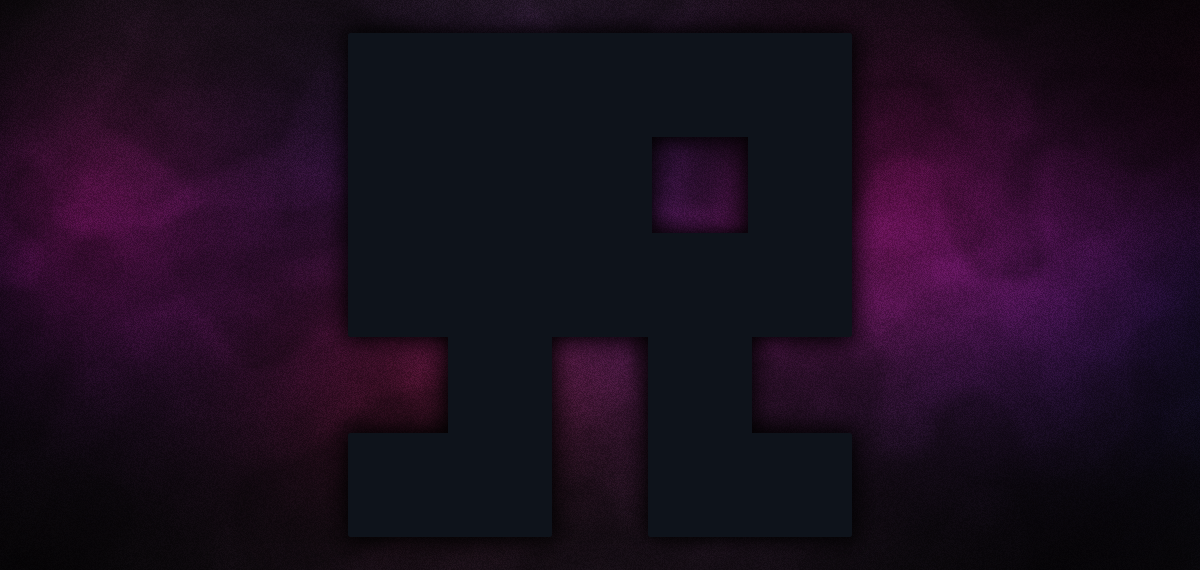
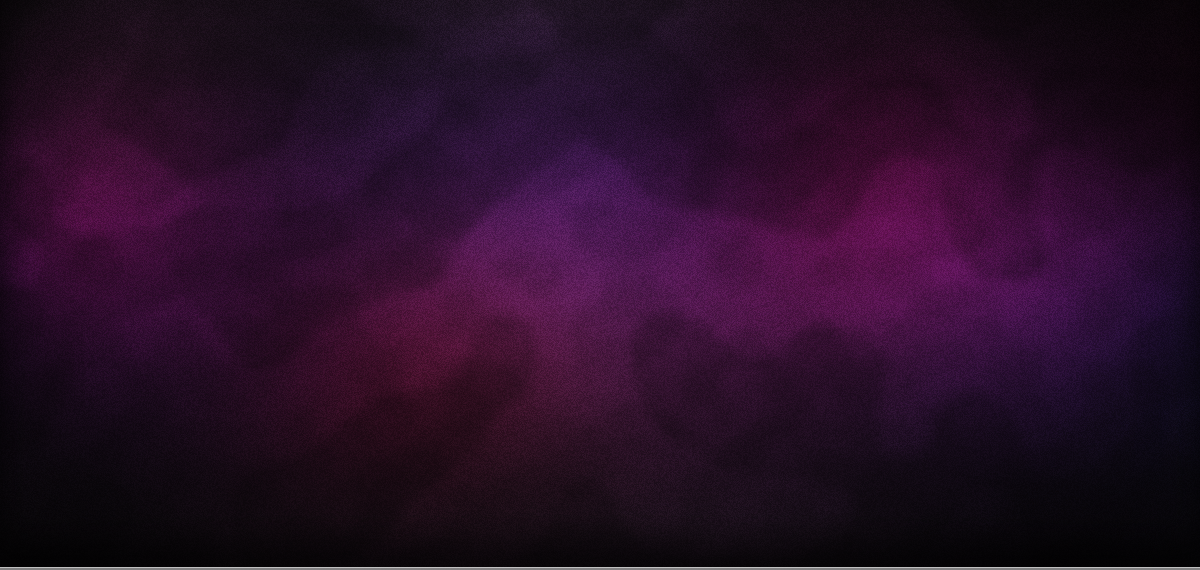
buttoooooons

Changed region(s): [[0.2775, 0.0298, 0.74, 0.8649], [0.0, 0.9842, 1.0, 1.0]]

diff --git a/LHM/src/lhm/GUI.css b/LHM/src/lhm/GUI.css
@@ -24,6 +24,7 @@ and open the template in the editor.
 
 #multilbl{
     -fx-font: 30 arial;
+    -fx-font-style: italic;
     -fx-text-fill: white;
     -fx-font-weight: bold;
     -fx-effect: dropshadow(gaussian, rgba(0, 0, 0, 0.4) , 10, 0.5, -1, 1);
@@ -73,6 +74,11 @@ and open the template in the editor.
     -fx-background-color: transparent;
 }
 
+#playbreakbtn:hover{
+    -fx-background-image: url("Bilder/playh.png");
+}
+
+
 #playbreakbtn1{
     -fx-background-image: url("Bilder/pause.png");
     -fx-background-size: 70px 70px;
@@ -82,6 +88,10 @@ and open the template in the editor.
 
 }
 
+#playbreakbtn1:hover{
+    -fx-background-image: url("Bilder/pauseh.png");
+}
+
 #stopbtn{
     -fx-background-image: url("Bilder/beenden.png");
     -fx-background-size: 70px 70px;
@@ -89,6 +99,10 @@ and open the template in the editor.
     -fx-background-position: center;
     -fx-background-color: transparent;
 
+}
+
+#stopbtn:hover{
+    -fx-background-image: url("Bilder/beendenh.png");
 }
 
 #ball{
@@ -110,4 +124,8 @@ and open the template in the editor.
     -fx-background-position: center;
     -fx-background-color: transparent;
 
+}
+
+#pfeill:hover{
+    -fx-background-image: url("Bilder/Pfeilh.png");
 }

diff --git a/out/production/Murmelbahn/lhm/GUI.css b/out/production/Murmelbahn/lhm/GUI.css
@@ -24,6 +24,7 @@ and open the template in the editor.
 
 #multilbl{
     -fx-font: 30 arial;
+    -fx-font-style: italic;
     -fx-text-fill: white;
     -fx-font-weight: bold;
     -fx-effect: dropshadow(gaussian, rgba(0, 0, 0, 0.4) , 10, 0.5, -1, 1);
@@ -73,6 +74,11 @@ and open the template in the editor.
     -fx-background-color: transparent;
 }
 
+#playbreakbtn:hover{
+    -fx-background-image: url("Bilder/playh.png");
+}
+
+
 #playbreakbtn1{
     -fx-background-image: url("Bilder/pause.png");
     -fx-background-size: 70px 70px;
@@ -82,6 +88,10 @@ and open the template in the editor.
 
 }
 
+#playbreakbtn1:hover{
+    -fx-background-image: url("Bilder/pauseh.png");
+}
+
 #stopbtn{
     -fx-background-image: url("Bilder/beenden.png");
     -fx-background-size: 70px 70px;
@@ -89,6 +99,10 @@ and open the template in the editor.
     -fx-background-position: center;
     -fx-background-color: transparent;
 
+}
+
+#stopbtn:hover{
+    -fx-background-image: url("Bilder/beendenh.png");
 }
 
 #ball{
@@ -110,4 +124,8 @@ and open the template in the editor.
     -fx-background-position: center;
     -fx-background-color: transparent;
 
+}
+
+#pfeill:hover{
+    -fx-background-image: url("Bilder/Pfeilh.png");
 }

diff --git a/LHM/src/lhm/LHM.java b/LHM/src/lhm/LHM.java
@@ -49,7 +49,7 @@ public class LHM extends Application {
     boolean playstop = true;
     int ebenecounter=0;
 
-    Slider slider = new Slider(0,1.5,1);
+    Slider slider = new Slider(0.25,1.5,1);
     Label multilbl = new Label("x1.0");
     Circle ball = new Circle(20);
     final Path pfad = pfadErstellen();
@@ -75,7 +75,7 @@ public class LHM extends Application {
         circles.getChildren().add(ball);
 
 
-        ImageView hintergrund = new ImageView("lhm/Bilder/bg.png");
+        ImageView hintergrund = new ImageView("lhm/Bilder/bg-2.png");
 
         ImageView transblock1 = new ImageView("lhm/Bilder/Ebene1-transparent.png");
         ImageView transblock3 = new ImageView("lhm/Bilder/Ebene3-transparent.png");
@@ -178,7 +178,6 @@ public class LHM extends Application {
         }*/
 
         Line line = new Line(0,570,1200,570);
-        Line line2 = new Line(350,525,450,525);
 
 
         Label geschwindlabel = new Label("xx km/h");
@@ -244,7 +243,7 @@ public class LHM extends Application {
 
         hbox.getChildren().addAll(playbreakbtn, stopbtn);
 
-        root.getChildren().addAll(line, hintergrund, ebene, ball, pfeill, pfeilr, transblock1, transblock3, geschwindlabel, slider, multilabel,hbox, multilbl, line2);
+        root.getChildren().addAll(line, hintergrund, ebene, ball, pfeill, pfeilr, transblock1, transblock3, geschwindlabel, slider, multilabel,hbox, multilbl);
 
         root.getStylesheets().add(LHM.class.getResource("GUI.css").toExternalForm());
 
